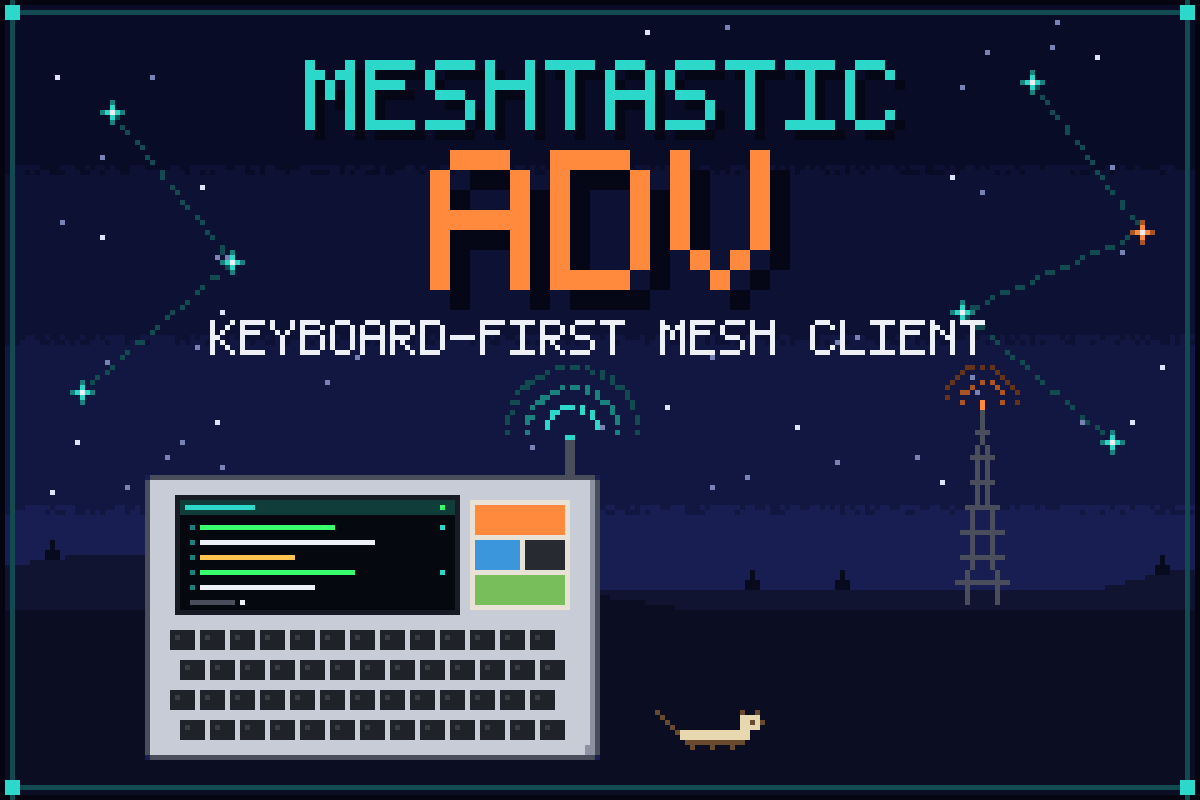
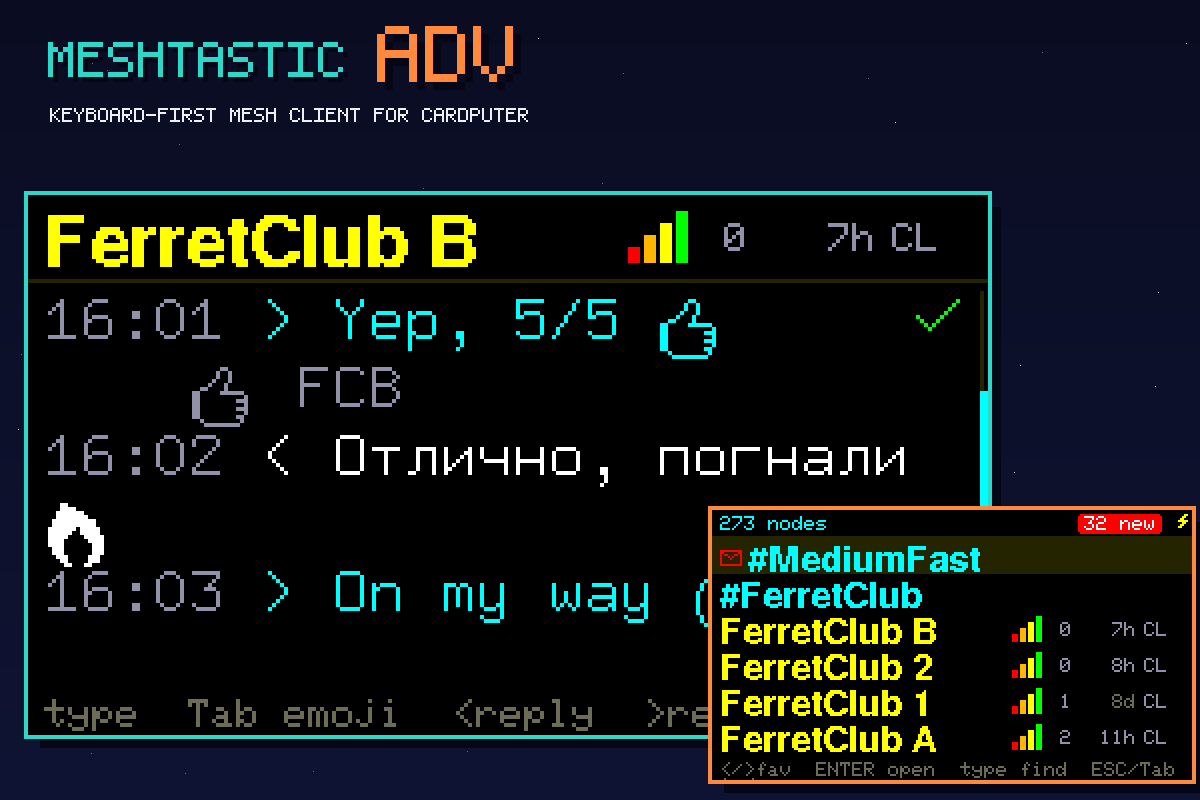
Cover art: show the real UI instead of a drawing (#91)
The M5Burner listing showed hand-drawn pixel art of a Cardputer. It now shows
what the firmware actually looks like: the chat screen at 4x (delivery check,
a reaction with its author, Cyrillic and Latin text, a quoted reply, the hotkey
bar) with the node list over the corner (node count, unread badge, charging
bolt, signal/hops/age per node).

The screenshots come from the device itself — the ADVUI_SCREENSHOT build's demo
dump — so scripts/mkcover.py can rebuild the cover from a fresh capture whenever
the UI changes. docs/img/shots/ holds the frames it composites.

diff --git a/scripts/mkcover.py b/scripts/mkcover.py
@@ -1,73 +1,10 @@
 #!/usr/bin/env python3
-"""M5Burner cover for Meshtastic ADV — 8-bit pixel art, 240x160 logical grid, x5 nearest upscale."""
-import math
-import random
-from PIL import Image
+"""M5Burner cover: the real UI, face-on.
 
-W, H = 240, 160
-SCALE = 5
-
-# --- palette ---------------------------------------------------------------
-SKY = [(9, 12, 38), (13, 17, 52), (18, 23, 66), (24, 30, 82)]
-STAR = (222, 228, 255)
-STAR_DIM = (120, 130, 180)
-TEAL = (44, 216, 202)
-TEAL_DIM = (26, 130, 126)
-TEAL_FAINT = (18, 74, 82)
-ORANGE = (255, 138, 61)
-ORANGE_DIM = (170, 84, 38)
-GREEN = (57, 255, 110)
-AMBER = (255, 196, 80)
-WHITE = (238, 240, 248)
-GREY = (200, 204, 214)
-GREY_SH = (140, 146, 162)
-GREY_DK = (74, 78, 92)
-KEY = (32, 34, 42)
-BEZEL = (24, 26, 36)
-SCREEN_BG = (5, 8, 14)
-GROUND = (11, 14, 34)
-GROUND_FAR = (16, 20, 48)
-FUR = (232, 216, 176)
-FUR_DK = (106, 74, 47)
-
-px = {}
-
-def put(x, y, c):
-    if 0 <= x < W and 0 <= y < H:
-        px[(x, y)] = c
-
-def rect(x0, y0, x1, y1, c):
-    for y in range(y0, y1 + 1):
-        for x in range(x0, x1 + 1):
-            put(x, y, c)
-
-def line(x0, y0, x1, y1, c, skip=0):
-    dx, dy = abs(x1 - x0), -abs(y1 - y0)
-    sx, sy = (1 if x0 < x1 else -1), (1 if y0 < y1 else -1)
-    err, i = dx + dy, 0
-    while True:
-        if skip == 0 or (i % (skip + 1)) != skip:
-            put(x0, y0, c)
-        i += 1
-        if x0 == x1 and y0 == y1:
-            break
-        e2 = 2 * err
-        if e2 >= dy:
-            err += dy; x0 += sx
-        if e2 <= dx:
-            err += dx; y0 += sy
-
-def arc_up(cx, cy, r, c, dash=3):
-    pts = set()
-    for a in range(181):
-        x = cx + round(r * math.cos(math.radians(a)))
-        y = cy - round(r * math.sin(math.radians(a)))
-        pts.add((x, y))
-    for i, (x, y) in enumerate(sorted(pts)):
-        if i % dash != dash - 1:
-            put(x, y, c)
-
-# --- 5x7 font ----------------------------------------------------------------
+Composites screenshots captured from the device (docs/img/shots/, produced by
+the ADVUI_SCREENSHOT build's demo dump) at 4x nearest-neighbour, so the listing
+shows actual pixels rather than a drawing. Writes docs/img/m5burner-cover.png.
+"""
 F = {
  'A': ["01110","10001","10001","11111","10001","10001","10001"],
  'B': ["11110","10001","11110","10001","10001","10001","11110"],
@@ -94,200 +31,77 @@ F = {
  ' ': ["00000","00000","00000","00000","00000","00000","00000"],
 }
 
-def text(s, x, y, c, scale=1, shadow=None):
+
+from PIL import Image, ImageDraw
+import random
+
+import os
+ROOT = os.path.dirname(os.path.dirname(os.path.abspath(__file__)))
+S = os.path.join(ROOT, "docs", "img")
+W, H = 1200, 800
+BG = (10, 13, 34)
+BG2 = (16, 20, 52)
+TEAL = (44, 216, 202)
+TEAL_DIM = (26, 120, 116)
+ORANGE = (255, 138, 61)
+DROP = (5, 7, 22)
+WHITE = (238, 240, 248)
+STAR = (200, 208, 245)
+STAR_DIM = (95, 105, 155)
+
+im = Image.new("RGB", (W, H), BG)
+d = ImageDraw.Draw(im)
+
+for y in range(H):
+    t = y / H
+    c = tuple(int(a + (b - a) * t) for a, b in zip(BG, BG2))
+    d.line([(0, y), (W, y)], fill=c)
+random.seed(9)
+for _ in range(80):
+    x, y = random.randrange(8, W - 8), random.randrange(8, H - 8)
+    im.putpixel((x, y), STAR if random.random() < 0.25 else STAR_DIM)
+
+def px_text(s, x, y, color, scale, shadow=None):
+    cx = x
+    if shadow:
+        for ch in s:
+            g = F.get(ch, F[' '])
+            for r, row in enumerate(g):
+                for k, bit in enumerate(row):
+                    if bit == '1':
+                        d.rectangle([cx + k*scale + scale, y + r*scale + scale,
+                                     cx + (k+1)*scale + scale - 1, y + (r+1)*scale + scale - 1], fill=shadow)
+            cx += 6 * scale
     cx = x
     for ch in s:
-        g = F[ch]
+        g = F.get(ch, F[' '])
         for r, row in enumerate(g):
             for k, bit in enumerate(row):
                 if bit == '1':
-                    for dy in range(scale):
-                        for dx in range(scale):
-                            if shadow:
-                                put(cx + k * scale + dx + scale, y + r * scale + dy + scale, shadow)
-    # second pass so shadow never overdraws glyphs
-        cx += 6 * scale
-    cx = x
-    for ch in s:
-        g = F[ch]
-        for r, row in enumerate(g):
-            for k, bit in enumerate(row):
-                if bit == '1':
-                    for dy in range(scale):
-                        for dx in range(scale):
-                            put(cx + k * scale + dx, y + r * scale + dy, c)
+                    d.rectangle([cx + k*scale, y + r*scale,
+                                 cx + (k+1)*scale - 1, y + (r+1)*scale - 1], fill=color)
         cx += 6 * scale
 
-def text_w(s, scale=1):
+def text_w(s, scale):
     return len(s) * 6 * scale - scale
 
-# --- sky ---------------------------------------------------------------------
-for y in range(H):
-    band = min(3, y // 34)
-    for x in range(W):
-        put(x, y, SKY[band])
-# dither seams
-random.seed(7)
-for b in range(1, 4):
-    yb = b * 34
-    for x in range(W):
-        if random.random() < 0.5:
-            put(x, yb - 1, SKY[b])
-        if random.random() < 0.3:
-            put(x, yb, SKY[b - 1])
+def place(shot, x, y, scale, border):
+    img = Image.open(os.path.join(S, "shots", shot + ".png"))
+    img = img.resize((img.width * scale, img.height * scale), Image.NEAREST)
+    d.rectangle([x + 12, y + 12, x + img.width + 12, y + img.height + 12], fill=DROP)
+    d.rectangle([x - 4, y - 4, x + img.width + 3, y + img.height + 3], fill=border)
+    im.paste(img, (x, y))
 
-# stars (keep clear of the title block)
-random.seed(42)
-for _ in range(90):
-    x, y = random.randrange(4, W - 4), random.randrange(4, 100)
-    if 52 <= x <= 188 and 8 <= y <= 66:
-        continue
-    put(x, y, STAR if random.random() < 0.3 else STAR_DIM)
-
-# --- mesh constellation --------------------------------------------------------
-nodes = [(22, 22), (46, 52), (16, 78), (206, 16), (228, 46), (192, 62), (222, 88)]
-links = [(0, 1), (1, 2), (3, 4), (4, 5), (5, 6)]
-for a, b in links:
-    (x0, y0), (x1, y1) = nodes[a], nodes[b]
-    line(x0, y0, x1, y1, TEAL_FAINT, skip=2)
-for i, (x, y) in enumerate(nodes):
-    c = ORANGE if i == 4 else TEAL
-    put(x, y, WHITE)
-    for dx, dy in ((1, 0), (-1, 0), (0, 1), (0, -1)):
-        put(x + dx, y + dy, c)
-    for dx, dy in ((2, 0), (-2, 0), (0, 2), (0, -2)):
-        put(x + dx, y + dy, TEAL_DIM if i != 4 else ORANGE_DIM)
-
-# --- title ---------------------------------------------------------------------
-# shadows near-bg dark: a bright shadow floods the glyph counters (A's bowl,
-# D's gap) and reads as corruption at block scale
-DROP = (5, 7, 22)
+# титул: MESHTASTIC (teal) + ADV (orange), затем подзаголовок
 t1 = "MESHTASTIC"
-text(t1, (W - text_w(t1, 2)) // 2, 12, TEAL, 2, shadow=DROP)
-t2 = "ADV"
-text(t2, (W - text_w(t2, 4)) // 2, 30, ORANGE, 4, shadow=DROP)
-t3 = "KEYBOARD-FIRST MESH CLIENT"
-text(t3, (W - text_w(t3, 1)) // 2, 64, WHITE, 1)
+px_text(t1, 48, 42, TEAL, 5, shadow=DROP)
+px_text("ADV", 48 + text_w(t1, 5) + 34, 26, ORANGE, 8, shadow=DROP)
+px_text("KEYBOARD-FIRST MESH CLIENT FOR CARDPUTER", 50, 108, WHITE, 2)
 
-# --- ground ----------------------------------------------------------------------
-HOR = 118
-for x in range(W):
-    h1 = int(10 * math.sin((x + 30) / 38.0)) - 2
-    for y in range(HOR - max(0, h1), H):
-        put(x, y, GROUND_FAR)
-for x in range(W):
-    h2 = int(7 * math.sin((x + 130) / 30.0)) - 3
-    for y in range(HOR + 4 - max(0, h2), H):
-        put(x, y, GROUND)
+# экраны: чат — герой, нодлист целиком картинкой-в-картинке поверх угла
+place("chat", 28, 195, 4, TEAL)         # 960x540 -> до (988, 735)
+place("nodes", 712, 510, 2, ORANGE)     # 480x270 -> до (1170, 765), поверх угла героя
 
-# pines on the far ridge
-random.seed(5)
-for bx in (10, 150, 168, 232):
-    base = HOR - max(0, int(10 * math.sin((bx + 30) / 38.0)) - 2)
-    for i in range(4):
-        rect(bx - i // 2, base - 4 + i, bx + i // 2, base - 4 + i, (8, 11, 30))
-
-# --- radio mast on the right hill -------------------------------------------------
-MX, MTOP, MBASE = 196, 82, HOR + 2
-line(MX, MTOP, MX - 3, MBASE, GREY_DK)
-line(MX, MTOP, MX + 3, MBASE, GREY_DK)
-for i, yy in enumerate(range(MTOP + 4, MBASE, 5)):
-    w = 1 + (yy - MTOP) // 8
-    line(MX - w, yy, MX + w, yy, GREY_DK)
-put(MX, MTOP - 1, ORANGE)
-put(MX, MTOP - 2, ORANGE)
-arc_up(MX, MTOP - 2, 4, ORANGE_DIM, dash=2)
-arc_up(MX, MTOP - 2, 7, (100, 52, 26), dash=2)
-
-# --- Cardputer ---------------------------------------------------------------------
-BX0, BY0, BX1, BY1 = 30, 96, 118, 150
-rect(BX0, BY0, BX1, BY1, GREY)
-for x in range(BX0, BX1 + 1):  # top/bottom outline
-    put(x, BY0 - 1, GREY_DK); put(x, BY1 + 1, GREY_DK)
-for y in range(BY0, BY1 + 1):
-    put(BX0 - 1, y, GREY_DK); put(BX1 + 1, y, GREY_DK)
-for c in ((BX0 - 1, BY0 - 1), (BX1 + 1, BY0 - 1), (BX0 - 1, BY1 + 1), (BX1 + 1, BY1 + 1)):
-    put(*c, SKY[3])  # knock out corners -> rounded
-# side shading
-for y in range(BY0, BY1 + 1):
-    put(BX1, y, GREY_SH)
-    put(BX1 - 1, y, GREY_SH) if y > BY1 - 2 else None
-
-# screen
-SX0, SY0, SX1, SY1 = 36, 100, 90, 121
-rect(SX0 - 1, SY0 - 1, SX1 + 1, SY1 + 1, BEZEL)
-rect(SX0, SY0, SX1, SY1, SCREEN_BG)
-rect(SX0, SY0, SX1, SY0 + 2, (16, 60, 58))          # header bar
-line(SX0 + 1, SY0 + 1, SX0 + 14, SY0 + 1, TEAL)     # channel name
-put(SX1 - 2, SY0 + 1, GREEN)                        # signal dot
-chat = [(GREEN, 26), (WHITE, 34), (AMBER, 18), (GREEN, 30), (WHITE, 22)]
-yy = SY0 + 5
-for c, wl in chat:
-    put(SX0 + 2, yy, TEAL_DIM)                      # "> " prompt
-    line(SX0 + 4, yy, SX0 + 4 + wl, yy, c)
-    if c is GREEN:
-        put(SX1 - 2, yy, TEAL)                      # ack check
-    yy += 3
-line(SX0 + 2, SY1 - 1, SX0 + 10, SY1 - 1, GREY_DK)  # input line
-put(SX0 + 12, SY1 - 1, WHITE)                       # cursor
-
-# M5 stamp sticker
-rect(94, 100, 113, 121, (232, 226, 214))
-rect(95, 101, 112, 106, ORANGE)
-rect(95, 108, 103, 113, (60, 150, 220))
-rect(105, 108, 112, 113, (40, 42, 50))
-rect(95, 115, 112, 120, (120, 190, 90))
-
-# keyboard: 4 rows x 13 keys
-ky = 126
-for r in range(4):
-    kx = BX0 + 4 + (r % 2) * 2
-    for k in range(13):
-        if kx + 4 > BX1 - 3:
-            break
-        rect(kx, ky, kx + 4, ky + 3, KEY)
-        put(kx + 1, ky + 1, (58, 60, 70))
-        kx += 6
-    ky += 6
-
-# antenna + LoRa waves
-AX, AY = 114, 88
-rect(AX - 1, AY, AX, BY0 - 1, GREY_DK)
-put(AX, AY - 1, TEAL)
-put(AX - 1, AY - 1, TEAL)
-for r, c in ((5, TEAL), (9, TEAL_DIM), (13, TEAL_FAINT)):
-    arc_up(AX, AY - 2, r, c, dash=3)
-
-# --- ferret -------------------------------------------------------------------------
-fx, fy = 136, 146  # tail joins at the left, nose at the right
-line(fx, fy, fx + 13, fy, FUR)          # body top
-line(fx, fy + 1, fx + 13, fy + 1, FUR)
-line(fx + 1, fy + 2, fx + 12, fy + 2, FUR_DK)     # belly/legs shadow
-put(fx + 2, fy + 3, FUR_DK); put(fx + 6, fy + 3, FUR_DK); put(fx + 10, fy + 3, FUR_DK)
-rect(fx + 12, fy - 3, fx + 15, fy - 1, FUR)       # head up
-put(fx + 12, fy - 4, FUR_DK); put(fx + 15, fy - 4, FUR_DK)  # ears
-put(fx + 14, fy - 2, FUR_DK)                      # mask
-put(fx + 16, fy - 2, FUR_DK)                      # nose
-line(fx - 1, fy, fx - 4, fy - 3, FUR_DK)          # tail
-put(fx - 5, fy - 4, FUR_DK)
-
-# --- frame ----------------------------------------------------------------------------
-for x in range(W):
-    put(x, 0, (4, 5, 16)); put(x, H - 1, (4, 5, 16))
-    put(x, 2, TEAL_FAINT); put(x, H - 3, TEAL_FAINT)
-for y in range(H):
-    put(0, y, (4, 5, 16)); put(W - 1, y, (4, 5, 16))
-    put(2, y, TEAL_FAINT); put(W - 3, y, TEAL_FAINT)
-for cx, cy in ((2, 2), (W - 3, 2), (2, H - 3), (W - 3, H - 3)):
-    for dx in range(-1, 2):
-        for dy in range(-1, 2):
-            put(cx + dx, cy + dy, TEAL)
-
-# --- render -----------------------------------------------------------------------------
-im = Image.new("RGB", (W, H))
-for (x, y), c in px.items():
-    im.putpixel((x, y), c)
-im = im.resize((W * SCALE, H * SCALE), Image.NEAREST)
-out = "/private/tmp/claude-501/-Users-randoom-claude/61ef78cd-ea4d-46cd-9e3f-224f805231ea/scratchpad/cover/m5burner-cover.png"
+out = os.path.join(S, "m5burner-cover.png")
 im.save(out)
-print("saved", out, im.size)
+print("saved", out)
